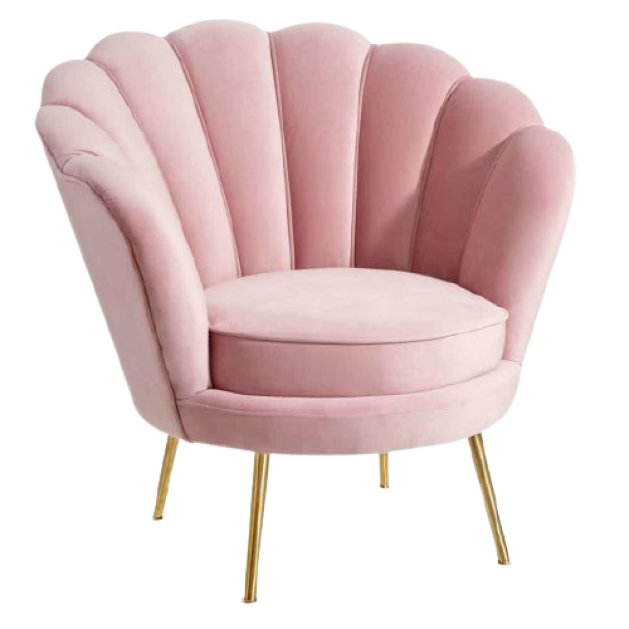
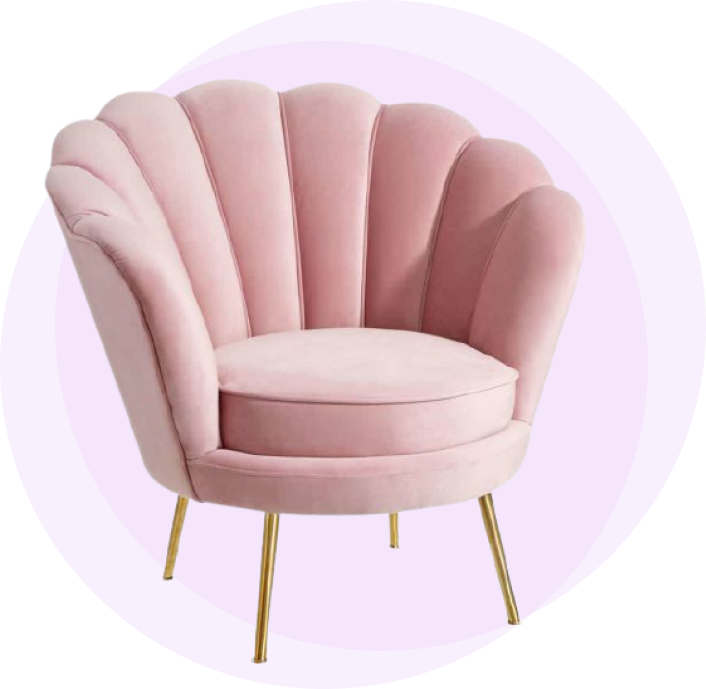
added new hero chair and font

diff --git a/Week 3/hekto/src/index.js b/Week 3/hekto/src/index.js
@@ -1,14 +1,14 @@
-import React from 'react';
-import ReactDOM from 'react-dom';
-import './index.css';
-import App from './App';
-import reportWebVitals from './reportWebVitals';
+import React from "react";
+import ReactDOM from "react-dom";
+import "./index.css";
+import App from "./App";
+import reportWebVitals from "./reportWebVitals";
 
 ReactDOM.render(
   <React.StrictMode>
     <App />
   </React.StrictMode>,
-  document.getElementById('root')
+  document.getElementById("root")
 );
 
 // If you want to start measuring performance in your app, pass a function

diff --git a/Week 3/hekto/src/index.css b/Week 3/hekto/src/index.css
@@ -1,5 +1,10 @@
+@import url("https://fonts.googleapis.com/css2?family=Josefin+Sans:wght@200;300;400;500&display=swap");
+
+
 body {
   margin: 0;
+  font-family: "Josefin Sans", sans-serif;
+  color: #161875;
   font-family: -apple-system, BlinkMacSystemFont, 'Segoe UI', 'Roboto', 'Oxygen',
     'Ubuntu', 'Cantarell', 'Fira Sans', 'Droid Sans', 'Helvetica Neue',
     sans-serif;
